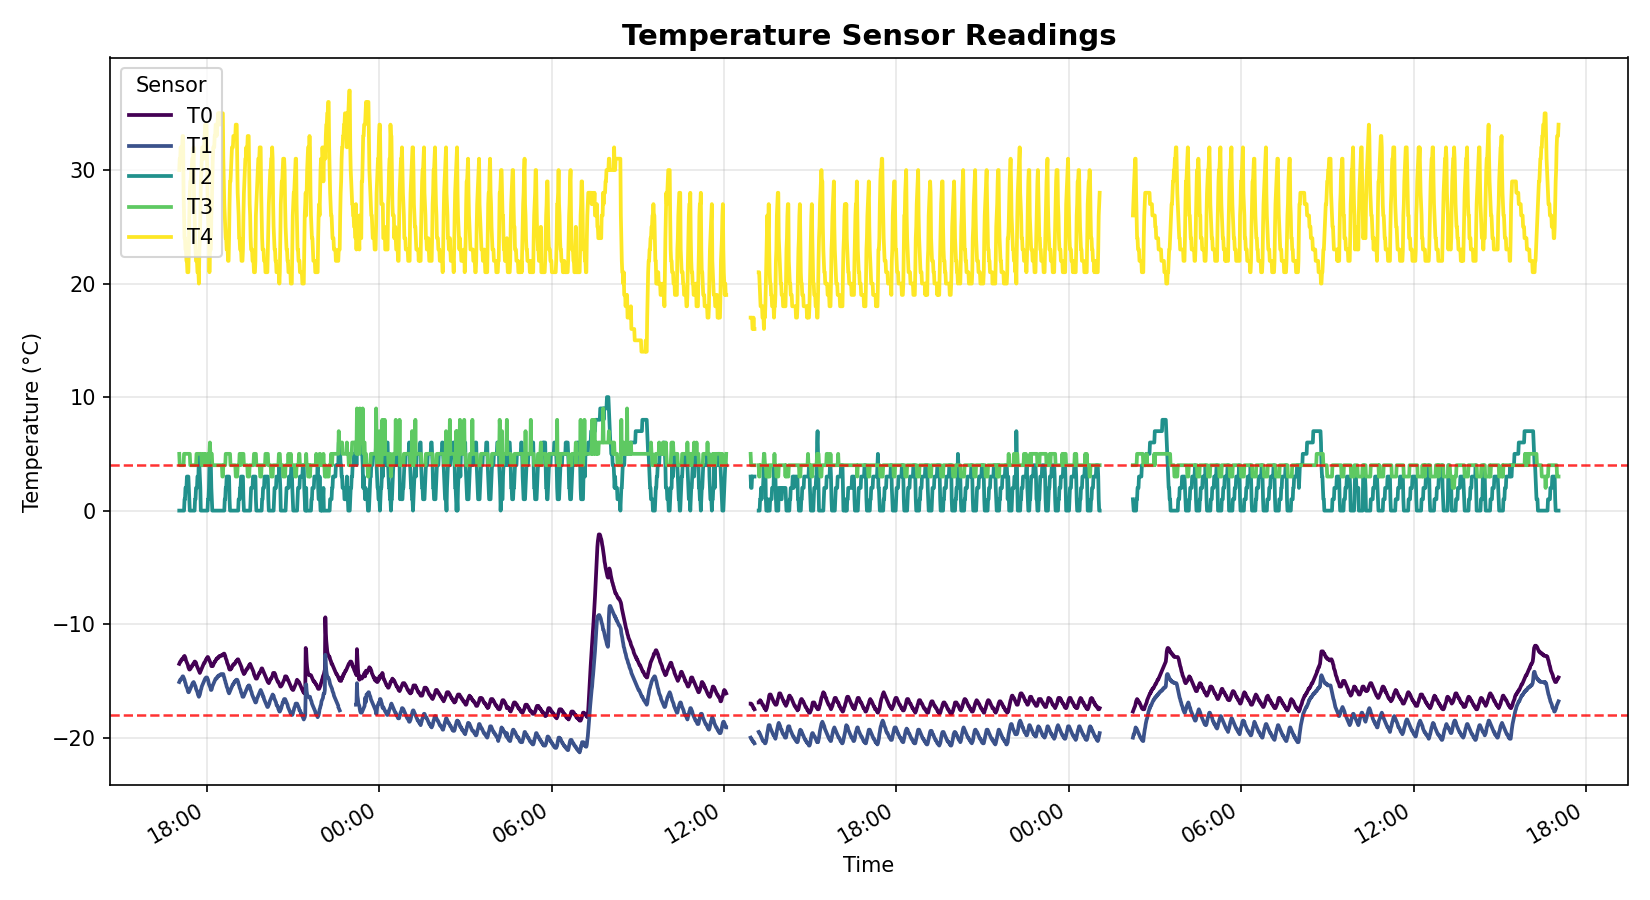
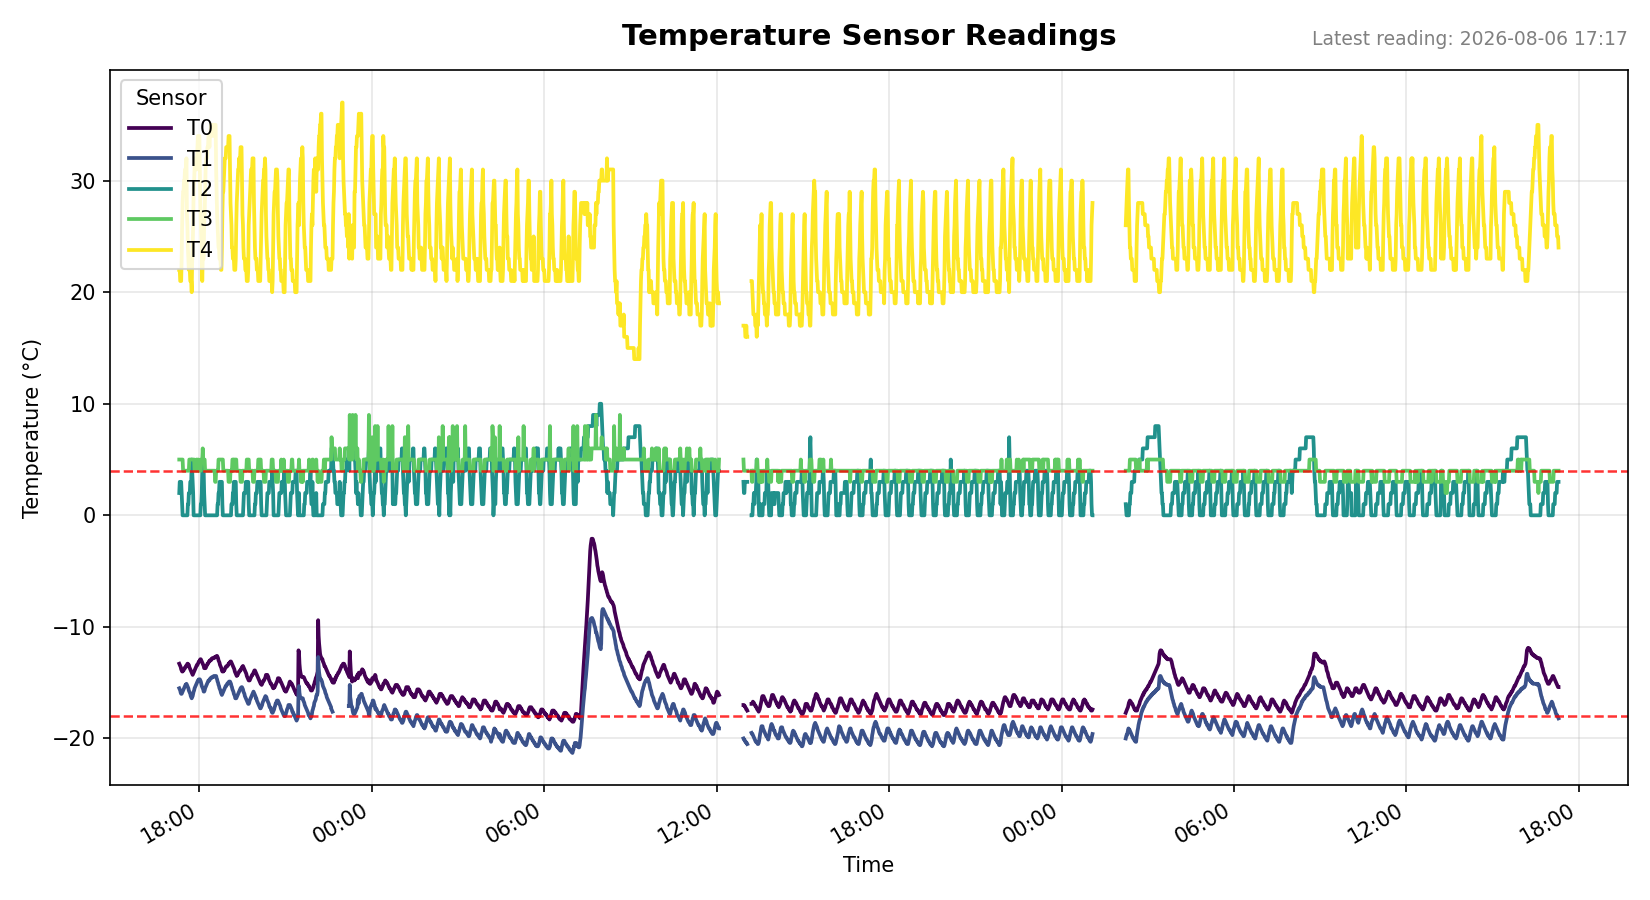
Update temperatures plot 2026-08-06 17:18

diff --git a/plot_temps.py b/plot_temps.py
@@ -114,6 +114,8 @@ def plot_temperatures(csv_path: str, output_path: str, window_hours: float = PLO
         cutoff = df["Time"].max() - pd.Timedelta(hours=window_hours)
         df = df[df["Time"] >= cutoff].reset_index(drop=True)
 
+    latest_timestamp = df["Time"].max() if not df.empty else None
+
     sensor_cols = [c for c in df.columns if c != "Time"]
 
     # Insert a NaN row wherever the gap between consecutive readings exceeds
@@ -154,6 +156,11 @@ def plot_temperatures(csv_path: str, output_path: str, window_hours: float = PLO
         ax.axhline(threshold, color="red", linestyle="--", linewidth=1.2, alpha=0.8)
 
     ax.set_title("Temperature Sensor Readings", fontsize=14, fontweight="bold")
+    if latest_timestamp is not None:
+        ax.set_title(
+            f"Latest reading: {latest_timestamp.strftime('%Y-%m-%d %H:%M')}",
+            fontsize=9, color="gray", loc="right", pad=12,
+        )
     ax.set_xlabel("Time")
     ax.set_ylabel("Temperature (°C)")
     ax.legend(title="Sensor", loc="upper left", frameon=True)
